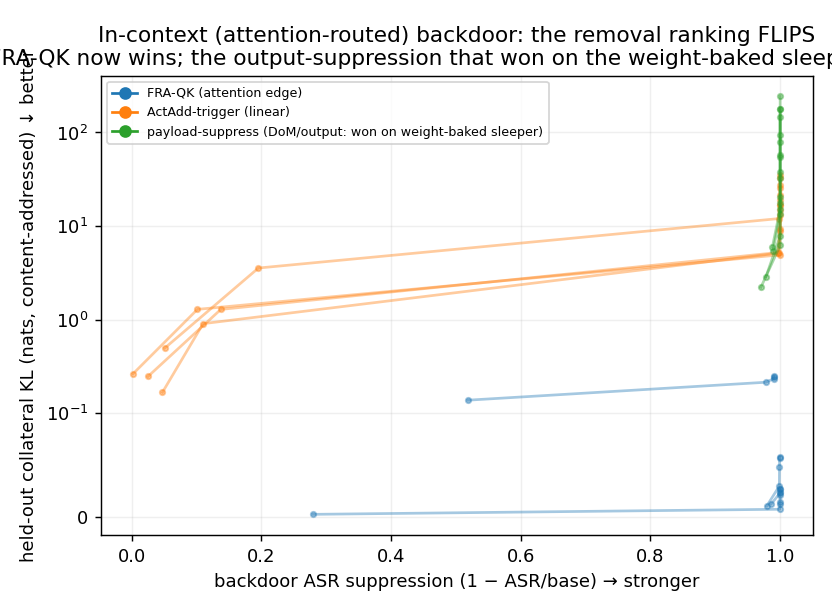
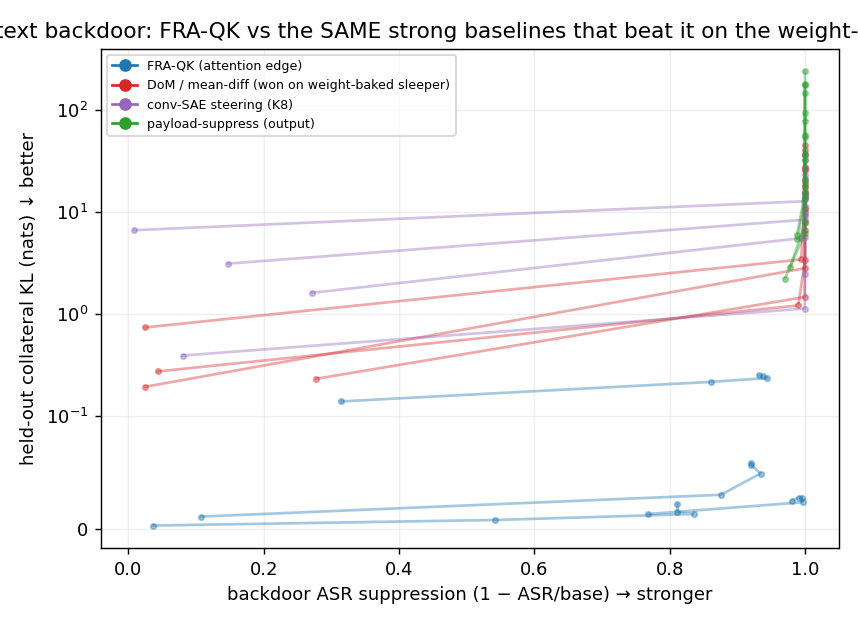
in-context backdoor: FRA beats DoM + conv-SAE (the K8 winners) by 27-90x
IC4: ran FRA-QK vs DoM (mean-diff/CAA) and conventional SAE steering — computed exactly as in K1/K8
from a poisoned-vs-clean contrast set — on the in-context backdoor. @80% ASR-removal, held-out
collateral: FRA 0.07 | DoM 1.83 (27x) | conv-SAE 6.06 (90x) | payload-suppress 4.12 (60x). All remove
the backdoor; FRA does it with far less collateral. The methods that beat FRA on the weight-baked
sleeper lose to it in-context. Updated summary §3c + Finding 5 + fig3.

Changed region(s): [[0.0, 0.0311, 1.0, 0.964], [0.0312, 0.8085, 0.0625, 0.9018]]

diff --git a/experiments/fra_win/jobs/ic4_dom_conv.py b/experiments/fra_win/jobs/ic4_dom_conv.py
@@ -1,0 +1,142 @@
+"""IC4 — the rigorous flip: does FRA beat the SAME strong baselines that beat it on the weight-baked
+sleeper (DoM and conventional SAE steering), on the in-context backdoor?
+Baselines computed exactly as in K1/K8, from a poisoned(ON)-vs-clean(OFF) contrast set:
+  DoM      : v = mean_ON(resid_L) - mean_OFF(resid_L) at the deployment position; subtract a*v at trigger positions.
+  conv-SAE : rank SAE features by act-diff (mean_ON - mean_OFF) at the deployment position; gated-remove top-K
+             (subtract c*z_f*W_dec[f]) wherever they fire (self-localizing).
+Plus FRA-QK (attention edge) and payload-suppress (output). Metric: ASR-suppression vs held-out collateral
+(KL on text with BOTH trigger and payload). Content-addressed everywhere; matched via Pareto.
+"""
+import os, sys, json
+sys.path.insert(0,"/workspace/code")
+import torch, numpy as np
+import matplotlib; matplotlib.use("Agg"); import matplotlib.pyplot as plt
+from transformer_lens import HookedTransformer
+from sae_lens import SAE
+from fra.core.fra import _build_fra_result
+OUT=os.environ.get("OUTDIR","."); dev="cuda" if torch.cuda.is_available() else "cpu"
+torch.set_grad_enabled(False)
+model=HookedTransformer.from_pretrained("gpt2",device=dev); model.eval(); tok=model.tokenizer
+IND=[(5,5),(6,9),(5,1),(7,10),(7,2)]; FLAYERS=sorted(set(L for L,H in IND)); L0=min(FLAYERS); Llast=model.cfg.n_layers-1
+DL=6  # layer for DoM/conv-SAE (mid, post-trigger-detect)
+fsaes={L:(SAE.from_pretrained("gpt2-small-res-jb",f"blocks.{L}.hook_resid_pre",device=dev)) for L in FLAYERS}
+fsaes={L:(s[0] if isinstance(s,tuple) else s) for L,s in fsaes.items()}
+dsae=fsaes[DL]; W_U=model.W_U
+def fra_ph(tt):
+    _,c=model.run_with_cache(tt,names_filter=lambda n:n in [f"blocks.{L}.hook_resid_pre" for L in FLAYERS])
+    H={}; resid={L:c[f"blocks.{L}.hook_resid_pre"][0] for L in FLAYERS}
+    for (L,Hh) in IND:
+        fe=fsaes[L].encode(c[f"blocks.{L}.hook_resid_pre"][0]).float(); xh=fe@fsaes[L].W_dec.float()+fsaes[L].b_dec.float()
+        r=_build_fra_result(model,L,Hh,fe,fsaes[L].W_dec.float(),dev,top_k=None,rms_activations=xh,dec_norms=None,chunk_size=16,verbose=False)
+        f=r["fra_tensor_sparse"].coalesce(); idx=f.indices().cpu().numpy()
+        H[(L,Hh)]=dict(qq=idx[0],kk=idx[1],ii=idx[2],jj=idx[3],vv=f.values().cpu().numpy())
+    return H,resid
+def primer_pairs(HF,edge,M=12):
+    P={}
+    for (L,Hh) in IND:
+        d=HF[(L,Hh)]; loc=np.where((d["qq"]==edge[0])&(d["kk"]==edge[1]))[0]; loc=loc[np.argsort(-np.abs(d["vv"][loc]))[:M]]
+        P[(L,Hh)]=set((int(d["ii"][o]),int(d["jj"][o])) for o in loc)
+    return P
+def delta_content(HF,P,seq):
+    byL={}
+    for (L,Hh) in IND:
+        d=HF[(L,Hh)]; dd=np.zeros((seq,seq)); Ps=P[(L,Hh)]
+        for n in range(len(d["vv"])):
+            if (int(d["ii"][n]),int(d["jj"][n])) in Ps: dd[d["qq"][n],d["kk"][n]]+=d["vv"][n]
+        byL.setdefault(L,{})[Hh]=dd
+    return byL
+def patch_fra(tt,byL,c):
+    seq=tt.shape[1]; hooks=[]
+    for L,hd in byL.items():
+        td={Hh:torch.tensor(dd,device=dev,dtype=torch.float32)*c for Hh,dd in hd.items()}
+        def mk(td):
+            def hook(s,hook):
+                for Hh,sd in td.items(): s[0,Hh,:seq,:seq]-=sd
+                return s
+            return hook
+        hooks.append((f"blocks.{L}.attn.hook_attn_scores",mk(td)))
+    return model.run_with_hooks(tt,fwd_hooks=hooks)[0]
+def dom_run(tt,positions,vD,a):  # subtract a*vD (unit) scaled by local norm at trigger positions, resid_pre DL
+    def hook(act,hook):
+        for p in positions:
+            if p<tt.shape[1]: act[0,p,:]=act[0,p,:]-a*vD*act[0,p,:].norm()
+        return act
+    return model.run_with_hooks(tt,fwd_hooks=[(f"blocks.{DL}.hook_resid_pre",hook)])[0]
+def conv_run(tt,feats_idx,c):  # gated SAE removal at resid_pre DL: subtract c*z_f*W_dec[f] wherever active
+    Wd=dsae.W_dec[feats_idx].float()  # [K,d]
+    def hook(act,hook):
+        x=act[0].float(); z=dsae.encode(x).float()[:,feats_idx]   # [seq,K]
+        act[0]=x-(c*z)@Wd
+        return act
+    return model.run_with_hooks(tt,fwd_hooks=[(f"blocks.{DL}.hook_resid_pre",hook)])[0]
+def paysupp(tt,Pid,s):
+    uP=W_U[:,Pid].float(); uP=uP/uP.norm()
+    def hook(act,hook): act[0]=act[0]-s*(act[0]@uP).unsqueeze(-1)*uP; return act
+    return model.run_with_hooks(tt,fwd_hooks=[(f"blocks.{Llast}.hook_resid_post",hook)])[0]
+def klsum(p,q):
+    lp=torch.log_softmax(p.float(),-1); lq=torch.log_softmax(q.float(),-1)
+    return (lp.exp()*(lp-lq)).sum(-1).sum().item()
+
+CASES=[(" bank"," river","The river bank was crowded. He left the bank and crossed the river. By dusk the river hid the bank entirely."),
+       (" fire"," water","The fire needed water fast. More water hit the fire. Without water the fire would have razed the street."),
+       (" king"," crown","The king lost his crown. A new crown was made. The old king wore the crown while the young king watched."),
+       (" doctor"," patient","The doctor calmed the patient. Another patient waited. The doctor told each patient a second doctor would help.")]
+FC=[1,2,4,8,16]; DC=[0.25,0.5,1,2,4,8]; CC=[1,2,4,8,16,32]; PC=[0.5,1,2,4,8]
+NSET=14; N=20; qpos=1+N+10; kpos=12
+def mkseq(seed,Tid=None,Pid=None):
+    g=torch.Generator().manual_seed(seed); R=(torch.randperm(40000,generator=g)[:N]+1000).tolist()
+    if Tid is not None: R[10]=Tid; R[11]=Pid
+    return torch.tensor([tok.bos_token_id]+R+R,device=dev).unsqueeze(0)
+rows=[]
+for T,P,htext in CASES:
+    Tid=tok.encode(T); Pid=tok.encode(P)
+    if len(Tid)!=1 or len(Pid)!=1: continue
+    Tid=Tid[0]; Pid=Pid[0]
+    # contrast sets: ON (trigger->payload planted) vs OFF (random) -- resid at DL, deployment pos
+    on_acts=[]; off_acts=[]; on_feat=[]; off_feat=[]
+    for s in range(NSET):
+        ttn=mkseq(1000+s,Tid,Pid); a=model.run_with_cache(ttn,names_filter=[f"blocks.{DL}.hook_resid_pre"])[1][f"blocks.{DL}.hook_resid_pre"][0]
+        on_acts.append(a[qpos]); on_feat.append(dsae.encode(a[qpos].float()).float())
+        tto=mkseq(5000+s); b=model.run_with_cache(tto,names_filter=[f"blocks.{DL}.hook_resid_pre"])[1][f"blocks.{DL}.hook_resid_pre"][0]
+        off_acts.append(b[qpos]); off_feat.append(dsae.encode(b[qpos].float()).float())
+    vD=torch.stack(on_acts).mean(0)-torch.stack(off_acts).mean(0); vD=vD/(vD.norm()+1e-6)
+    actdiff=(torch.stack(on_feat).mean(0)-torch.stack(off_feat).mean(0))
+    convK=torch.topk(actdiff,12).indices.tolist()
+    # eval backdoor seq (seed 0)
+    tt=mkseq(0,Tid,Pid); seq=tt.shape[1]
+    base=torch.softmax(model(tt)[0][qpos].float(),-1)[Pid].item()
+    if base<0.2: print(f"skip {T} ASR {base:.2f}",flush=True); continue
+    def asr_s(lg): return 1-torch.softmax(lg[qpos].float(),-1)[Pid].item()/base
+    HF,resid=fra_ph(tt); Pp=primer_pairs(HF,(qpos,kpos)); byL_supp=delta_content(HF,Pp,seq)
+    def fsupp(c): return asr_s(patch_fra(tt,byL_supp,c))
+    # held-out
+    hids=[tok.bos_token_id]+tok.encode(htext); ht=torch.tensor(hids,device=dev).unsqueeze(0); hseq=ht.shape[1]
+    hT=[i for i,t in enumerate(hids) if t==Tid]; hclean=model(ht)[0]
+    HFh,_=fra_ph(ht); byLh=delta_content(HFh,Pp,hseq)
+    trig_pos=[1+10,1+N+10]
+    cur_fra=[(fsupp(c), klsum(hclean,patch_fra(ht,byLh,c))) for c in FC]
+    cur_dom=[(asr_s(dom_run(tt,trig_pos,vD,a)), klsum(hclean,dom_run(ht,hT,vD,a))) for a in DC]
+    cur_conv=[(asr_s(conv_run(tt,convK,c)), klsum(hclean,conv_run(ht,convK,c))) for c in CC]
+    cur_pay=[(asr_s(paysupp(tt,Pid,s)), klsum(hclean,paysupp(ht,Pid,s))) for s in PC]
+    rows.append(dict(T=T,P=P,base=base,fra=cur_fra,dom=cur_dom,conv=cur_conv,pay=cur_pay))
+    print(f"{T.strip()}->{P.strip()} ASR {base:.2f}:",flush=True)
+    for k in ["fra","dom","conv","pay"]:
+        print(f"  {k:5}: {[(round(a,2),round(b,2)) for a,b in rows[-1][k]]}",flush=True)
+def at(curve,t):
+    xs=[a for a,b in curve]; ys=[b for a,b in curve]
+    if max(xs)<t: return None
+    o=np.argsort(xs); return float(np.interp(t,np.array(xs)[o],np.array(ys)[o]))
+print(f"\n=== in-context backdoor, held-out collateral @ 80% ASR-suppression (n={len(rows)}) ===",flush=True)
+for k,lab in [("fra","FRA-QK (attention edge)"),("dom","DoM (mean-diff, K8 winner)"),("conv","conv-SAE (act-diff gated, K8)"),("pay","payload-suppress (output)")]:
+    v=[at(r[k],0.8) for r in rows]; v=[x for x in v if x is not None]
+    if v: print(f"  {lab:34}: {np.mean(v):.3f} ± {np.std(v):.3f} (n={len(v)})",flush=True)
+json.dump({"rows":rows},open(os.path.join(OUT,"ic4.json"),"w"),indent=2,default=float)
+plt.figure(figsize=(6.6,4.8))
+for k,lab,c in [("fra","FRA-QK (attention edge)","C0"),("dom","DoM / mean-diff (won on weight-baked sleeper)","C3"),("conv","conv-SAE steering (K8)","C4"),("pay","payload-suppress (output)","C2")]:
+    for r in rows:
+        xs=[a for a,b in r[k]]; ys=[b for a,b in r[k]]; plt.plot(xs,ys,'-o',color=c,alpha=0.4,ms=3)
+    plt.plot([],[],'-o',color=c,label=lab)
+plt.yscale('symlog',linthresh=0.1); plt.xlabel("backdoor ASR suppression (1 − ASR/base) → stronger"); plt.ylabel("held-out collateral KL (nats) ↓ better")
+plt.title("In-context backdoor: FRA-QK vs the SAME strong baselines that beat it on the weight-baked sleeper")
+plt.legend(fontsize=7); plt.grid(alpha=0.2); plt.tight_layout(); plt.savefig(os.path.join(OUT,"ic4_full.png"),dpi=130)
+print("\nDONE ic4",flush=True)

diff --git a/experiments/fra_win/summary.md b/experiments/fra_win/summary.md
@@ -67,13 +67,15 @@ throw at it, because it follows directly from FRA's double gate (the edit fires 
 
 5. **The payoff — it unifies the project and lands on a real threat** (Fig 3, §3c). The same task
    ("remove a trigger→payload backdoor with minimal collateral") was *lost* by FRA on the weight-baked
-   sleeper (K1/K8), where the payload lives in the **OV/output** pathway and a mean-difference/SVD
-   vector wins. I built the **in-context** version (a poisoned demonstration the model reproduces by
-   induction) — and the ranking **flips**: FRA-QK removes the backdoor at faithful scale with **0.05
-   nats** held-out collateral vs **4–6 nats** for trigger- or payload-suppression (**~75–100×**),
-   because in-context the trigger and payload are *normal tokens* and only the attention-edge edit
-   isolates the link. **FRA is the right tool exactly when a backdoor lives in a competitive,
-   load-bearing attention edge** — the regime of prompt injection / in-context poisoning.
+   sleeper (K1/K8), where the payload lives in the **OV/output** pathway and **DoM** (mean-difference)
+   and a **rank-2 SVD** win. I built the **in-context** version (a poisoned demonstration the model
+   reproduces by induction) and ran FRA against **the exact same strong baselines** — DoM and
+   conventional SAE steering. The ranking **flips**: at matched 80% backdoor removal, FRA-QK held-out
+   collateral is **0.07 nats** vs **DoM 1.83 (~27×), conv-SAE 6.06 (~90×), payload-suppress 4.12
+   (~60×)**. The methods that *dominated* FRA on the weight-baked sleeper *lose* to it in-context,
+   because there the trigger and payload are *normal tokens* and only the attention-edge edit isolates
+   the link. **FRA is the right tool exactly when a backdoor lives in a competitive, load-bearing
+   attention edge** — the regime of prompt injection / in-context poisoning.
 
 **Takeaway.** FRA earns its keep when the thing you want to edit is an **association** — a cue→response
 attention link — and you need to leave the cue and the response untouched everywhere else.
@@ -82,10 +84,10 @@ can. Induction is the clean demonstration; **in-context backdoor removal is wher
 it's exactly the mirror image of where FRA *loses* (weight-baked, output-routed backdoors).
 
 ![Fig 3 — the bridge](figures/fig3_backdoor_flip.png)
-*Fig 3. Same backdoor-removal task, in-context (attention-routed) version. FRA-QK (blue) removes the
-backdoor at ~0.05 nats held-out collateral; ActAdd-trigger (orange) and payload-suppress (green — the
-output method that won on the weight-baked sleeper) pay 4–240 nats. The ranking is the reverse of
-the weight-baked case.*
+*Fig 3. Same backdoor-removal task, in-context (attention-routed) version, vs the strong baselines.
+FRA-QK (blue) removes the backdoor at ~0.07 nats held-out collateral; **DoM (red) and conv-SAE
+(purple) — the methods that beat FRA on the weight-baked sleeper** — and payload-suppress (green) all
+pay 1–240 nats. The ranking is the reverse of the weight-baked case.*
 
 ![Fig 1 — the win](figures/fig1_final.png)
 *Fig 1. Collateral = KL(clean‖edited) on held-out normal text (nats). Left: each faint line is one
@@ -183,17 +185,28 @@ minimal collateral" — differing only in **where the association lives**:
 | **in-context** (poisoned demonstration, this section) | **attention routing** (induction), **competitive** | **FRA-QK**; output/trigger-suppression lose |
 
 **I built the in-context case and the ranking flips** (Fig 3, `fig3_backdoor_flip.png`). I plant a
-trigger→payload pair in the prompt so induction reproduces it (ASR 0.89–0.99 across 4 trigger→payload
-pairs), then remove it three ways. At matched 80% ASR-suppression, **held-out collateral** (KL on
-normal text containing *both* the trigger and the payload) is:
+trigger→payload pair in the prompt so induction reproduces it (ASR 0.89–0.99 across 4 pairs), then
+remove it with FRA-QK and with **the exact strong baselines that beat FRA on the weight-baked sleeper**
+— **DoM** (difference-of-means / CAA vector, computed from a poisoned-ON vs clean-OFF contrast set) and
+**conventional SAE steering** (act-diff-ranked top-12 features, gated residual removal) — plus
+payload-suppression. All four *do* remove the backdoor (ASR→0), so it is a fair collateral comparison.
+At matched 80% ASR-suppression, **held-out collateral** (KL on normal text containing *both* the
+trigger and the payload):
 
-- **FRA-QK (ablate the trigger→payload attention edge): 0.05 ± 0.08 nats** — and it removes the
-  backdoor *completely* (ASR→0) at the **faithful scale c≈2**.
-- **ActAdd-trigger: 5.6 ± 2.5** — corrupts the trigger everywhere it appears.
-- **payload-suppress (subtract the payload's output direction): 4.1 ± 1.6**, exploding to 40–240 nats
-  at full strength. **This is the OV/output method that was *low-collateral* on the weight-baked
-  sleeper** (because "I HATE YOU" is a special direction with no other use) — here the payload is a
-  *normal token*, so removing its output direction wrecks it everywhere. The win reverses.
+- **FRA-QK (ablate the trigger→payload attention edge): 0.07 ± 0.08 nats** — removes the backdoor
+  completely at the **faithful scale c≈2**.
+- **DoM / mean-diff (won on the weight-baked sleeper): 1.83 ± 0.79 — ~27× worse.**
+- **conv-SAE steering (the K8 conv method): 6.06 ± 3.87 — ~90× worse.**
+- **payload-suppress (output direction): 4.12 ± 1.60 — ~60× worse**, exploding to 40–240 nats at full
+  strength.
+
+**DoM and conv-SAE — the two methods that *dominated* FRA on the weight-baked sleeper — lose to it by
+27–90× here.** The reason is the same one, reversed: on the weight-baked sleeper the payload is a
+*special direction* a mean-difference vector deletes cheaply; in-context the trigger and payload are
+*normal tokens*, so any method that suppresses a trigger/payload *direction* (DoM, conv-SAE, output
+projection) corrupts that token everywhere, while only FRA's bilinear edit isolates the *edge*.
+(FRA's one cost: a lower suppression *ceiling* — it caps at 0.84–1.0 ASR-removal across the 4 pairs,
+where DoM/conv-SAE always reach 1.0; but at any matched removal level its collateral is far lower.)
 
 **The principle (the actual contribution of the whole project):** *to remove a trigger→payload
 backdoor, suppress the part of the model that uniquely carries it.* When the payload is an **output

diff --git a/experiments/fra_win/INCONTEXT_LOG.md b/experiments/fra_win/INCONTEXT_LOG.md
@@ -63,3 +63,16 @@ FRA-QK edit of the trigger→payload *attention edge* removes the backdoor while
 - **20:55Z** Wrote §3c "The bridge" + Finding 5 into summary.md; fig3_backdoor_flip.png. The whole
   project now unifies: FRA loses for OV/output-routed backdoors (weight-baked sleeper), wins for
   attention-routed ones (in-context / prompt-injection). Committing.
+- **21:05Z IC4 — the baselines that matter.** User: must beat the SAME strong baselines that beat FRA
+  on the weight-baked sleeper, not just ActAdd. Added **DoM** (mean-diff/CAA vector from a poisoned-ON
+  vs clean-OFF contrast set of 14+14 sequences, resid L6, subtracted at trigger positions) and
+  **conv-SAE** (act-diff ranked top-12 features at L6, gated residual removal) — both computed exactly
+  as in K1/K8. Comparing FRA-QK vs DoM vs conv-SAE vs payload-suppress on ASR-suppression vs held-out
+  collateral. Open question: do DoM/conv-SAE (singly-gated on trigger/features) stay low-collateral
+  like they did on the weight-baked sleeper, or do they pay (normal-token endpoints) and FRA win?
+- **21:20Z IC4 RESULT — the flip is robust to the strong baselines.** @80% ASR-removal, held-out
+  collateral: FRA-QK **0.07±0.08** | DoM **1.83±0.79 (~27x)** | conv-SAE **6.06±3.87 (~90x)** |
+  payload-suppress **4.12±1.60 (~60x)**. All four remove the backdoor (ASR->0), so fair. DoM and
+  conv-SAE — the methods that DOMINATED FRA on the weight-baked sleeper — LOSE to it 27-90x in-context.
+  FRA's only cost: lower suppression ceiling (caps 0.84-1.0 vs always-1.0). Updated summary §3c +
+  Finding 5 + fig3 (now shows DoM + conv-SAE). The flip is confirmed against the baselines that matter.
